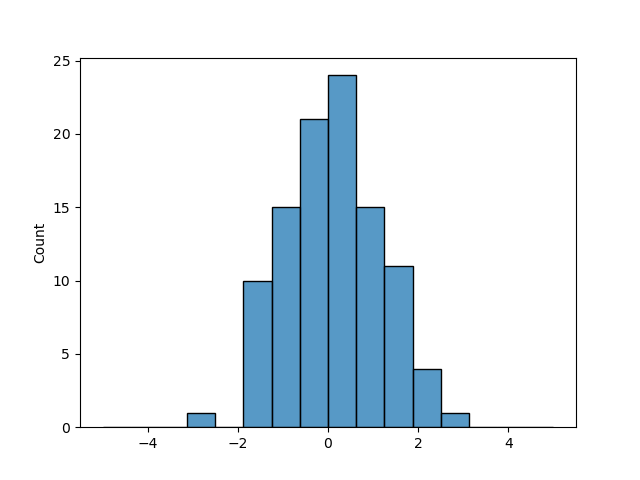
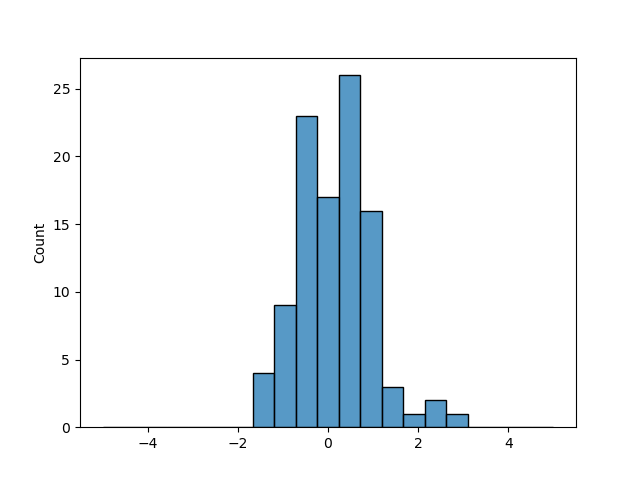
Added multivariate

diff --git a/fit_and_evaluate.py b/fit_and_evaluate.py
@@ -37,7 +37,8 @@ def reparameterize(mu: Tensor, logvar: Tensor) -> Tensor:
 
 def get_features(model,dloader,keepk=None):
     ## Train features for checking 
-    features=[]
+    features_mu=[]
+    features_std=[]
     labels=[]
     for i,item in tqdm(enumerate(tqdm(dloader))):
         x,label=item[0],item[1]
@@ -48,13 +49,21 @@ def get_features(model,dloader,keepk=None):
         x=x.cuda()
         #x=x.unsqueeze(0)
         mu,logvar=model.encoder(x)
-        #std = torch.exp(0.5 * logvar)
-        z=reparameterize(mu, logvar).detach().cpu()
-        features.append(z.flatten(start_dim=1).numpy())
+        std = torch.exp(0.5 * logvar)
+        #z=reparameterize(mu, logvar).detach().cpu()
+        features_mu.append(mu.flatten(start_dim=1).detach().cpu().numpy())
+        features_std.append(std.flatten(start_dim=1).detach().cpu().numpy())
         labels.append(label)
-    features=np.concatenate(features,axis=0)
+    features_mu=np.concatenate(features_mu,axis=0)
+    features_std=np.concatenate(features_std,axis=0)
     labels=np.concatenate(labels,axis=0)
-    return features,labels
+
+    mean=np.average(features_mu , axis=0)
+    std=np.average(features_std , axis=0)
+
+    print(f"Mean mean shape is {mean.shape} ")
+    print(f"Std mean shape is {std.shape} ")
+    return mean,std,labels
 
 def fit_gaussian_latent(model):
     """Proper way to do it with gaussian fitting if determiant of variance is well defined"""
@@ -124,8 +133,6 @@ def get_recons_loss(model,dloader,save_examples=True,imgs=20):
         vis_results(pred_images,labels,dists,imgs=imgs)
     return dists,labels
 
-
-
 def get_reconstruction_dist(model,save_examples=True):
     """
     Compute the reconstruction loss for a given model and data.
@@ -143,7 +150,7 @@ def get_reconstruction_dist(model,save_examples=True):
     - labels (List[int]): A list of labels for the data (0 for normal, 1 for anomalous).
     """
     print(f"Getting Data!!")
-    train_loader,val_loader,_=get_data(8)
+    train_loader,val_loader,_=get_data(128)
     dists,labels=get_recons_loss(model,val_loader,save_examples=save_examples)
     if not save_examples:
         epsilon, F1 = select_threshold(labels, dists,reverse=True)
@@ -163,14 +170,17 @@ def get_kdes(model,dloader,kernel,save_examples=True,imgs=200000):
         model.cuda()
         model.eval()
         x=x.cuda()
-        z=model.encoder(x).detach().cpu().flatten(start_dim=1).numpy()
+
+        mu,logvar=model.encoder(x)
+        z=reparameterize(mu, logvar).detach().cpu()
         pred_image=model(x).detach().cpu()
+
         if isinstance(kernel,tuple):
             mu,var=kernel
             prob=multivariate_gaussian(z, mu, var)
+            print("prob shape is {prob.shape}")
         else:
             z=z.transpose(1,0)
-
             prob=kernel(z)
         probs.append(prob)
         labels.append(label.numpy())
@@ -188,7 +198,7 @@ def get_kdes(model,dloader,kernel,save_examples=True,imgs=200000):
 def get_kde_probs(model,save_examples=True):
     print(f"Getting Data!!")
     import seaborn as sns
-    train_loader,val_loader,_=get_data(2)
+    train_loader,val_loader,_=get_data(128)
     features,_=get_features(model,train_loader)
     print(f"Features shape is {features.shape}")
     sns.histplot(features[:,30],binrange=(-5,5))
@@ -197,6 +207,7 @@ def get_kde_probs(model,save_examples=True):
     #mu, var = estimate_gaussian(train_features)  
     #p_train = multivariate_gaussian(train_features, mu, var)
     features=features.transpose(1,0)
+    print(f"Features shape is {features.shape}")
     #print(f"Train features min and max are {train_features.min(),train_features.max()}")
     #print(f"Train features shape is {train_features.shape}")
     #print(f"Fitting KDE Kernel!!")

diff --git a/utils/utils.py b/utils/utils.py
@@ -33,10 +33,10 @@ def multivariate_gaussian(X, mu, var):
     
     k = len(mu)
     
-    if np.min(var)<1e-2:
-        print(f"Det of orig var is {np.linalg.det(np.diag(var))}")
-        var+=1
-        print(f"Det of Mod var is {np.linalg.det(np.diag(var))}")
+    #if np.min(var)<1e-2:
+    #    print(f"Det of orig var is {np.linalg.det(np.diag(var))}")
+    #    var+=1
+    #    print(f"Det of Mod var is {np.linalg.det(np.diag(var))}")
 
     if var.ndim == 1:
         var = np.diag(var)
